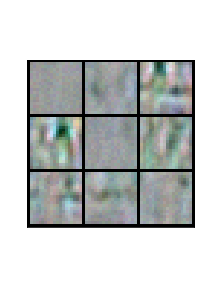
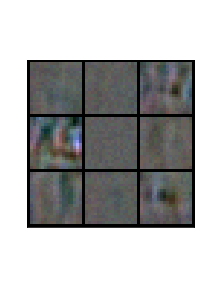
implementing nn.BatchNorm

diff --git a/gaze.py b/gaze.py
@@ -18,10 +18,11 @@ mean = .4
 std = .3
 conv1_dim = 9
 conv1_kernel_size = 18
+conv1_bn_momentum = .9
 conv2_dim = 36
 conv2_kernel_size = 14
-bn1_momentum = .5
-bn2_momentum = .5
+conv2_bn_momentum = .9
+dense_bn_momentum = .9
 dimension = 30
 verbose = False
 stride1 = 2
@@ -37,7 +38,7 @@ def init(dataset_folder=dataset_folder, dataset_faces_folder=dataset_faces_folde
             log_interval=log_interval, fullsize=fullsize, crop=crop, size=size, mean=mean, std=std,
             conv1_dim=conv1_dim, conv1_kernel_size=conv1_kernel_size,
             conv2_dim=conv2_dim, conv2_kernel_size=conv2_kernel_size,
-            bn1_momentum=bn1_momentum, bn2_momentum=bn2_momentum,
+            conv1_bn_momentum=conv1_bn_momentum, conv2_bn_momentum=conv2_bn_momentum, dense_bn_momentum=dense_bn_momentum,
             stride1=stride1, stride2=stride2, N_cv=N_cv,
             dimension=dimension, verbose=verbose):
     # Training settings
@@ -47,7 +48,7 @@ def init(dataset_folder=dataset_folder, dataset_faces_folder=dataset_faces_folde
                 log_interval=log_interval, fullsize=fullsize, crop=crop, size=size, mean=mean, std=std,
                 conv1_dim=conv1_dim, conv1_kernel_size=conv1_kernel_size,
                 conv2_dim=conv2_dim, conv2_kernel_size=conv2_kernel_size,
-                bn1_momentum=bn1_momentum, bn2_momentum=bn2_momentum,
+                conv1_bn_momentum=conv1_bn_momentum, conv2_bn_momentum=conv2_bn_momentum, dense_bn_momentum=dense_bn_momentum,
                 stride1=stride1, stride2=stride2, N_cv=N_cv,
                 dimension=dimension, verbose=verbose
                 )
@@ -186,30 +187,38 @@ class Net(nn.Module):
         self.args = args
         # data is in the format (N, C, H, W)
         self.conv1 = nn.Conv2d(3, args.conv1_dim, kernel_size=args.conv1_kernel_size)
+        self.conv1_bn = nn.BatchNorm2d(args.conv1_dim, momentum=1-args.conv1_bn_momentum)
         padding1 = args.conv1_kernel_size - 1 # total padding in layer 1 (before max pooling)
         # https://pytorch.org/docs/stable/nn.html#torch.nn.MaxPool2d
         out_height_1 = (args.size - padding1 - args.stride1) // args.stride1 + 1
         out_width_1 = (1*args.size - padding1 - args.stride1) // args.stride1 + 1
         # TODO : self.bn1 = nn.BatchNorm2d(32)
         self.conv2 = nn.Conv2d(args.conv1_dim, args.conv2_dim, kernel_size=args.conv2_kernel_size)
+        self.conv2_bn = nn.BatchNorm2d(args.conv2_dim, momentum=1-args.conv2_bn_momentum)
         padding2 = args.conv2_kernel_size - 1 # total padding in layer 2
         out_height_2 = (out_height_1 - padding2 - args.stride2) // args.stride2 + 1
         out_width_2 = (1*out_width_1 - padding2 - args.stride2) // args.stride2 + 1
         fc1_dim = (out_width_2*out_height_2) * args.conv2_dim
-        self.fc1 = nn.Linear(fc1_dim, args.dimension)
-        self.bn1 = nn.BatchNorm1d(args.dimension, momentum=args.bn1_momentum)
-        self.fc2 = nn.Linear(args.dimension, len(self.args.classes))
-        self.bn2 = nn.BatchNorm1d(len(self.args.classes), momentum=args.bn2_momentum)
+        self.dense_1 = nn.Linear(fc1_dim, args.dimension)
+        #This momentum argument is different from one used in optimizer classes and the conventional notion of momentum. Mathematically, the update rule for running statistics here is x̂ new=(1−momentum)×x̂ +momemtum×xt, where x̂  is the estimated statistic and xt is the new observed value.
+        self.dense_bn = nn.BatchNorm1d(args.dimension, momentum=1-args.dense_bn_momentum)
+        self.dense_2 = nn.Linear(args.dimension, len(self.args.classes))
+        self.dense_input_size = None
 
     def forward(self, x):
-        x = F.relu(F.max_pool2d(self.conv1(x), kernel_size=[self.args.stride1, self.args.stride1]))#, stride=[self.args.stride1, self.args.stride1]))
+        x = self.conv1(x)
+        if self.args.conv1_bn_momentum>0: x = self.conv1_bn(x)
+        x = F.relu(F.max_pool2d(x, kernel_size=[self.args.stride1, self.args.stride1]))#, stride=[self.args.stride1, self.args.stride1]))
         # x = F.relu(F.max_pool2d(self.conv2_drop(self.conv2(x)), kernel_size=[self.args.stride2, self.args.stride2]))#, stride=[self.args.stride2, self.args.stride2]))
-        x = F.relu(F.max_pool2d(self.conv2(x), kernel_size=[self.args.stride2, self.args.stride2]))#, stride=[self.args.stride2, self.args.stride2]))
-        x = x.view(-1, self.num_flat_features(x))
-        x = F.relu(self.fc1(x))
-        x = self.fc2(x)
-        # x = F.relu(self.bn1(self.fc1(x)))
-        # x = self.bn2(self.fc2(x))
+        x = self.conv2(x)
+        if self.args.conv2_bn_momentum>0:x = self.conv2_bn(x)
+        x = F.relu(F.max_pool2d(x, kernel_size=[self.args.stride2, self.args.stride2]))#, stride=[self.args.stride2, self.args.stride2]))
+        if self.dense_input_size is None: self.dense_input_size= self.num_flat_features(x)
+        x = x.view(-1, self.dense_input_size)
+        x = self.dense_1(x)
+        if self.args.dense_bn_momentum>0: x = self.dense_bn(x)
+        x = F.relu(x)
+        x = self.dense_2(x)
         return F.log_softmax(x, dim=1)
 
     def num_flat_features(self, x):
@@ -515,11 +524,12 @@ if __name__ == '__main__':
         print(50*'-')
         for parameter in ['conv1_kernel_size',
                           'conv1_dim',
-                          'bn1_momentum',
+                          'conv1_bn_momentum',
                           'conv2_kernel_size',
                           'conv2_dim',
-                          'bn2_momentum',
+                          'conv2_bn_momentum',
                           'stride1', 'stride2',
+                          'dense_bn_momentum',
                           'dimension']:
             mml.parameter_scan(parameter)
 
